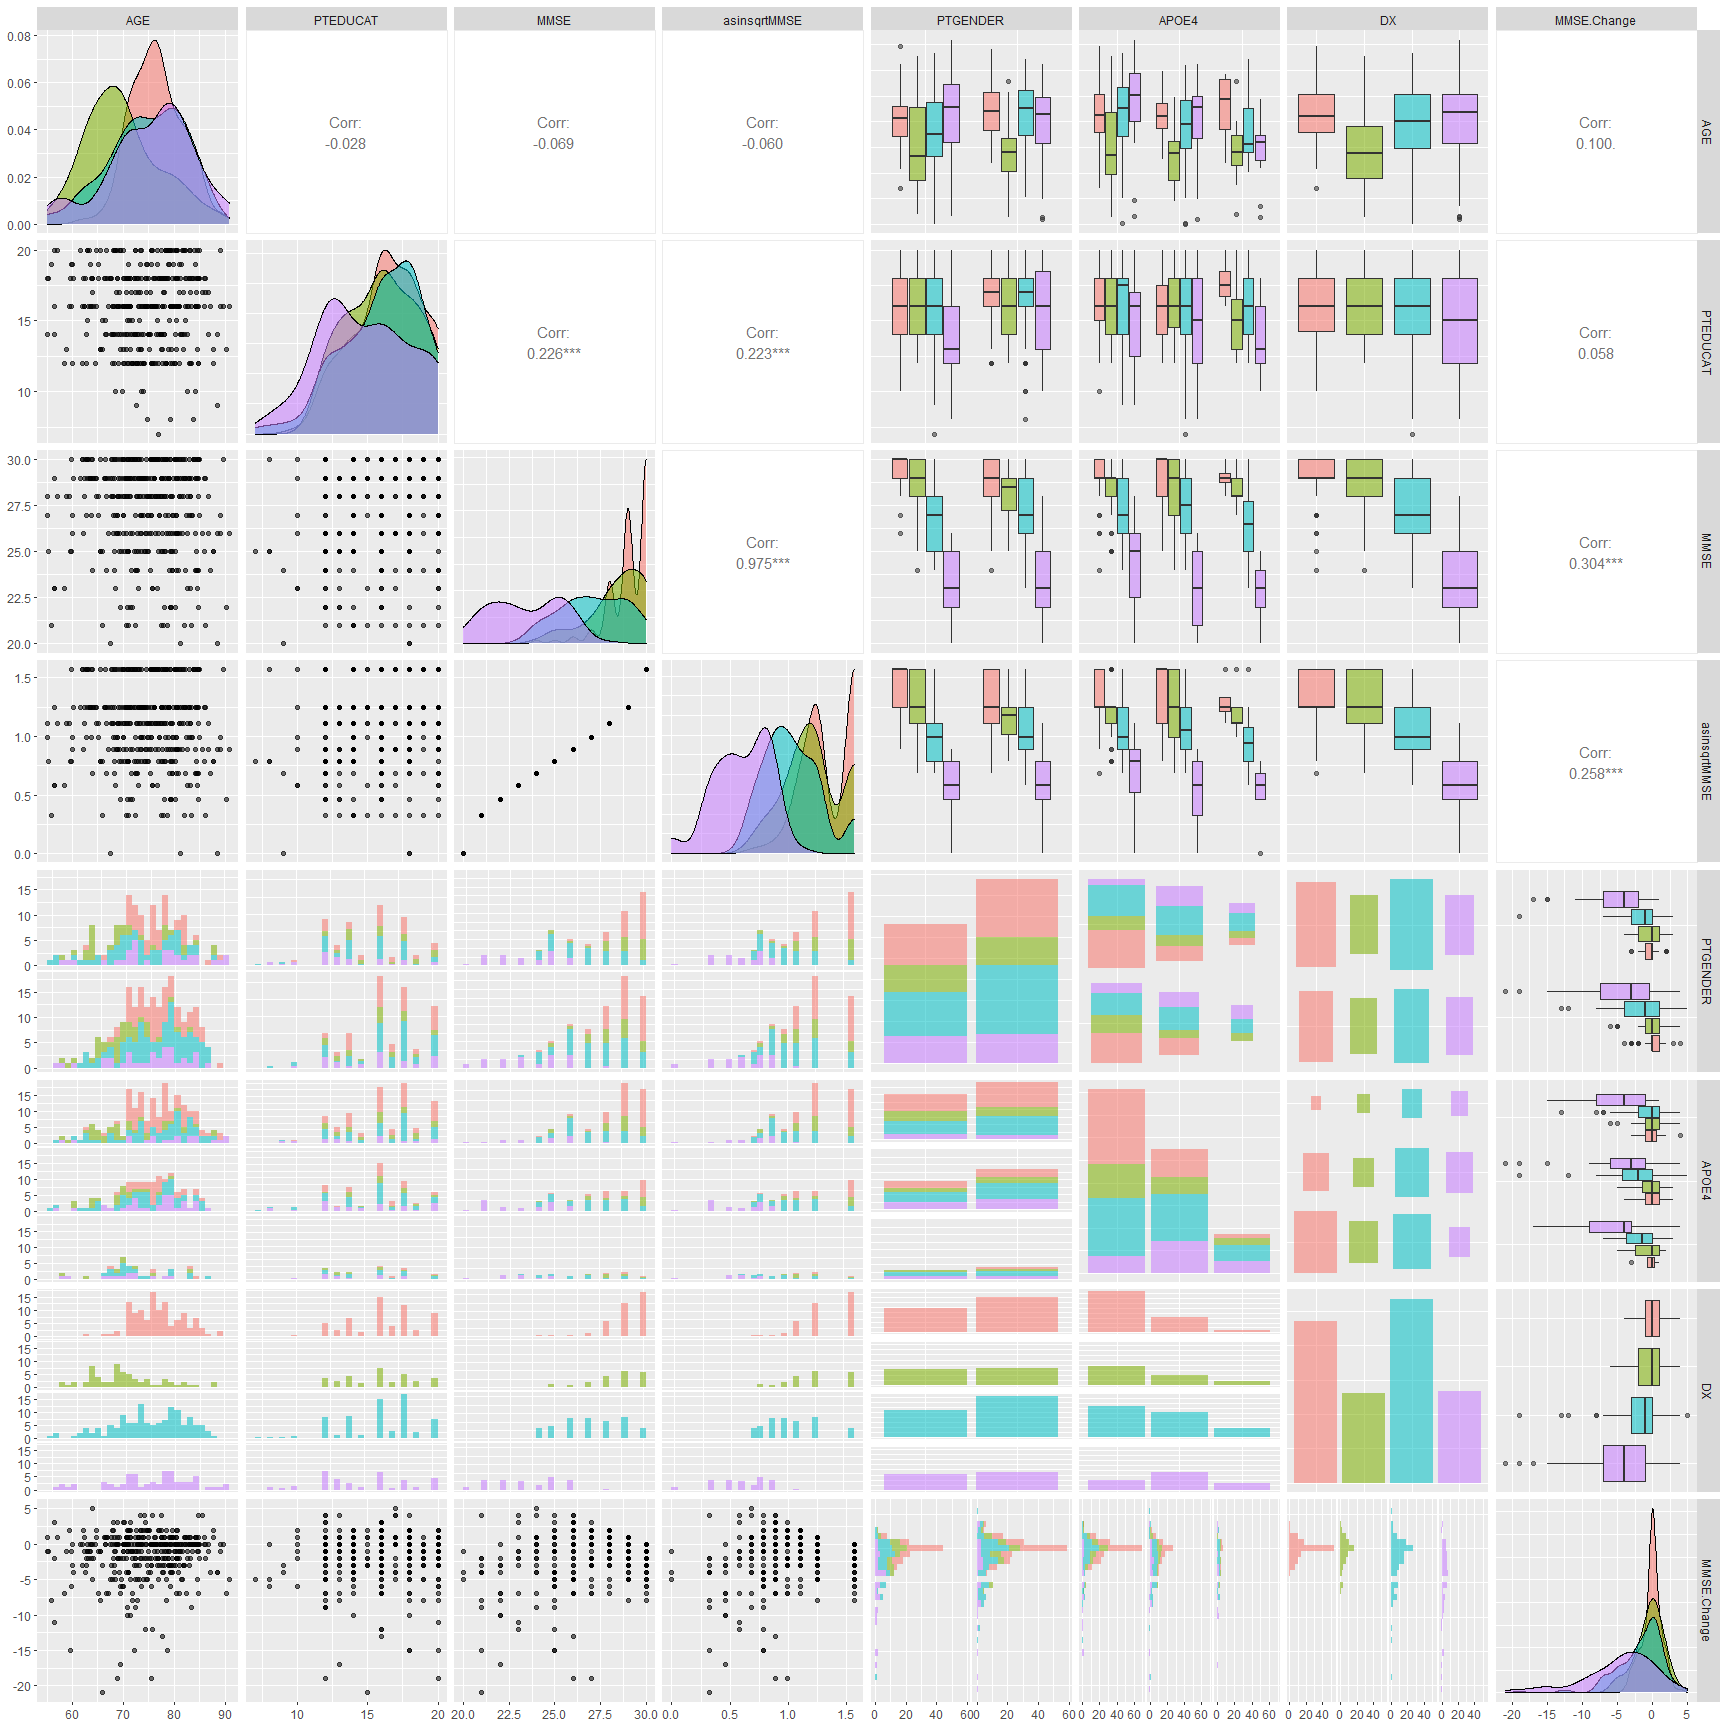
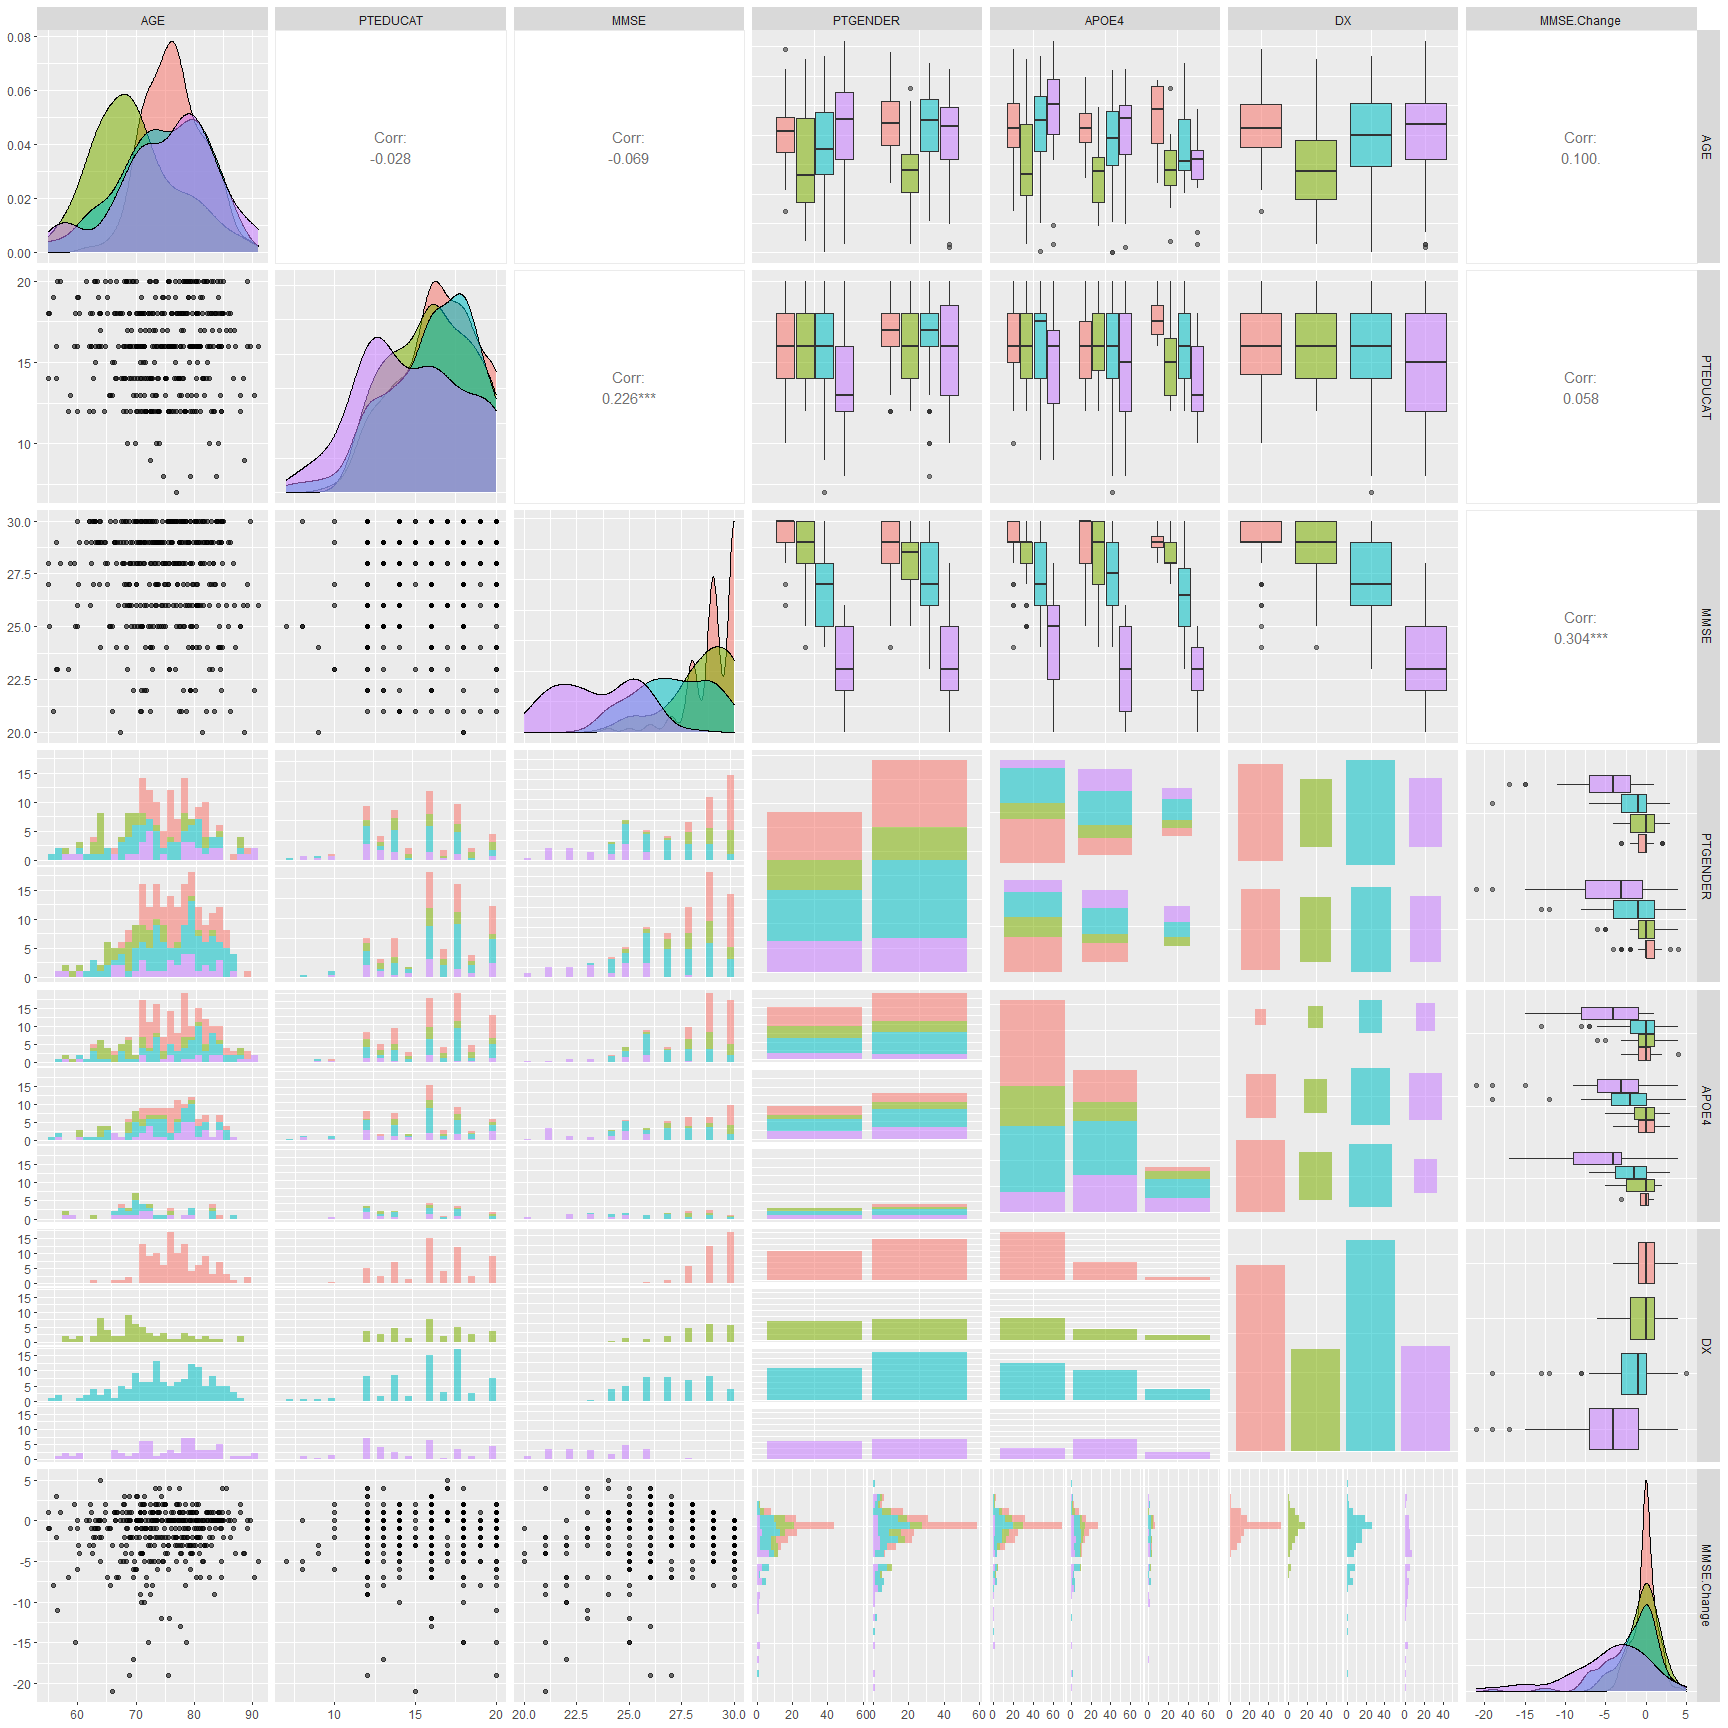
lme model + MMSE transforms

diff --git a/README.md b/README.md
@@ -87,7 +87,8 @@ Sample MMSE:
 <!-- GETTING STARTED -->
 ## Getting Started
 
-1 Sentence problem statement (what's Y, what's X, etc.)
+The goal of this projet is to predict the change in MMSE score `MMSE.Change` (Y) given baseline patient features. Note, this is a regression problem and although `MMSE` is a discrete count the predicted quanitity `MMSE.Change` will be treated as a continuous variable.
+
 
 Preprocessing:
 - Exploratory plotting
@@ -124,6 +125,18 @@ transform(
 df %>% head()
 ```
 
+First, the dataset was read into R, then the data integrity was quickly validated by
+- Checking column names/datatypes
+  - Including understanding the meaning of each feature/categorical entry
+- Checking for missing values
+- Checking basic summary statistics
+
+Note that levels of the DX (diagnosis) column are as follows:
+- CN : Cognitively normal
+- EMCI : Early Mild Cognitive Impairment
+- LMCI : Late Mile Cognitive Impairment
+- AD : Alzheimer's Disease
+
 <figure>
   <img src="./img/dfHead.png", width = "1080">
   <figcaption><b>Fig 2.</b> Head of Dataset.</figcaption>
@@ -131,17 +144,23 @@ df %>% head()
 
 <p align="right">(<a href="#top">back to top</a>)</p>
 
-It is important to realize here that our relevant feature space is _extremely_ limited.  Of the 10 original columns in the dataset, 1 (`MMSE.Change`) is the response variable, and 3 (`RID`, `PTID`, `EXAMDATE`) have minimal-no predictive information.  This leaves only 6 columns for training on a dataset with 384 entries. In short, this is very little data for a very complicated problem and this will likely result in relatively high variance in the regressive models.
+After a cursory examination of the dataset, it is important to realize here that our relevant feature space is _extremely_ limited.  Of the 10 original columns in the dataset, 1 (`MMSE.Change`) is the response variable, and 3 (`RID`, `PTID`, `EXAMDATE`) have minimal-no predictive information.  This leaves only 6 columns for training on a dataset with 384 entries. In short, unless there are very dominant features with extremely high predictive value, this is very little data for a very complicated problem and this will likely result in relatively high variance in the regressive models.
 
 ### Exploratory Plotting
 
 ```{r, fig.width= 18, fig.height=18, message = FALSE, warning = FALSE}
 df %>% 
-  mutate(asinsqrtMMSE = asin(sqrt(minmax(MMSE)))  ) %>%
-  select(AGE, PTEDUCAT, MMSE, asinsqrtMMSE, everything(), MMSE.Change, -RID, -PTID, -EXAMDATE) %>% # removing factors with too many levels or irrelevant features
+  select(AGE, PTEDUCAT, MMSE, everything(), MMSE.Change, -RID, -PTID, -EXAMDATE) %>% # removing factors with too many levels or irrelevant features
   ggpairs(aes(fill = DX, alpha = 0.7), progress = FALSE)
 
 ```
+
+There are several observations we can make from the plot below.
+
+1) The grid pattern seen in the `MMSE` vs `PTEDUCAT` scatter plot is indicative of two discrete variables.  Indeed, both years of education and MMSE are represented as whole numbers in this dataset.  While this may not have a large impact on our predictive model, it is nevertheless important to recongize the underlying structure of our data.
+2) The distribution of `MMSE` appears to be have a strong left skew. Moreover, this value is relatively weakly correleated with the outcome variable `MMSE.Change`. Later, we will examine how a couple of transforms change the correlation and distribution of `MMSE` and `MMSE.Changed`
+3) Looking by eye, `MMSE.Change` seems relatively comparable between most categorical features and `MMSE` seems to be the only quantitative feature significantly correlated with the aforementioned. `DX` perhaps shows a modestly lower `MMSE.Change` in the case of AD, but the variance is quite large.  
+4) Again by eye, there do not appear to be any very strong linear dependencies between features.
 
 <figure>
   <img src="./img/pairs_colorDX.png", width = "1080">
@@ -149,7 +168,6 @@ df %>%
 </figure>
 
 ```{r}
-# template: https://www.datanovia.com/en/blog/elegant-visualization-of-density-distribution-in-r-using-ridgeline/
 df %>%
   ggplot(aes(x = `MMSE.Change`, y = DX, group = DX, fill = factor(stat(quantile)))) + 
   stat_density_ridges(
@@ -194,6 +212,21 @@ df %>%
 In some groups (CN/EMCI), the line/points clearly indicate subject variability. This variability seems to increase in LMCI and AD.  Note that because the MMSE score is capped at 30, we may have some censoring which could cause the measure of center to shift to the left.
 
 <p align="right">(<a href="#top">back to top</a>)</p>
+
+```{r, fig.width= 12, fig.height=12, message = FALSE, warning = FALSE}
+df %>% 
+  mutate(asinsqrtMMSE = asin(sqrt(minmax(MMSE))), logMMSE = log(MMSE+1), MMSE4mo = MMSE + `MMSE.Change`, logMMSE4mo = log(MMSE4mo+1), asinsqrtMMSE4mo = asin(sqrt(minmax(MMSE4mo)))) %>%
+  select(MMSE, asinsqrtMMSE, logMMSE, MMSE.Change, MMSE4mo, logMMSE4mo, asinsqrtMMSE4mo, DX) %>% # removing factors with too many levels or irrelevant features
+  ggpairs(aes(fill = DX, alpha = 0.7), progress = FALSE)
+
+```
+
+<figure>
+  <img src="./img/pairsplotMMSETransforms.png", width = "720">
+  <figcaption><b>Fig 6.</b> MMSE Transforms</figcaption>
+</figure>
+
+Note that of the transforms performed, the asin-sqrt transform of `MMSE4mo` showed the strongest correlation to the baseline `MMSE`.  We will try a model both using the transformed dependent variable and with the raw data.
 
 ### Feature Selection
 
@@ -247,9 +280,10 @@ fviz_mfa_ind(resFAMD,
 
 ## Modeling
 
-* GLM
-* RF
-* Neural Net?
+* General Linear Model
+* Linear Mixed Effects
+* Random Forest
+
 
 ### GLM
 
@@ -303,6 +337,8 @@ Number of Fisher Scoring iterations: 2
 
 <p align="right">(<a href="#top">back to top</a>)</p>
 
+
+
 ### RF
 
 #### Setup
@@ -345,14 +381,86 @@ DX       26.222985      776.4001
 
 <p align="right">(<a href="#top">back to top</a>)</p>
 
-### Neural Net (?)
+
+### Linear Mixed Effects
 
 #### Setup
+```{r}
+lmeMod2 <- lme(`MMSE.Change`~ AGE+MMSE+PTGENDER+PTEDUCAT+APOE4+DX, random = ~ 1|PTID, data = df_lme)
+lmeMod2
+summary(lmeMod2)
+```
 
+```
+Linear mixed-effects model fit by REML
+  Data: df_lme 
+  Log-restricted-likelihood: -989.6201
+  Fixed: MMSE.Change ~ AGE + MMSE + PTGENDER + PTEDUCAT + APOE4 + DX 
+ (Intercept)          AGE         MMSE PTGENDERMale     PTEDUCAT       APOE41       APOE42       DXEMCI       DXLMCI         DXAD 
+  0.35167737   0.05543014  -0.14411548   0.29307865  -0.03558215  -0.34469115  -0.42067946  -0.01832123  -1.74341427  -5.25577317 
+
+Random effects:
+ Formula: ~1 | PTID
+        (Intercept) Residual
+StdDev:    2.967406 1.112879
+
+Fixed effects:  MMSE.Change ~ AGE + MMSE + PTGENDER + PTEDUCAT + APOE4 + DX 
+ Correlation: 
+             (Intr) AGE    MMSE   PTGEND PTEDUC APOE41 APOE42 DXEMCI DXLMCI
+AGE          -0.582                                                        
+MMSE         -0.815  0.093                                                 
+PTGENDERMale  0.054 -0.100  0.008                                          
+PTEDUCAT     -0.193  0.058 -0.121 -0.228                                   
+APOE41       -0.124  0.107  0.028 -0.059  0.092                            
+APOE42       -0.197  0.165  0.105 -0.054  0.077  0.324                     
+DXEMCI       -0.319  0.303  0.148  0.006  0.029 -0.013 -0.036              
+DXLMCI       -0.449  0.112  0.438 -0.021 -0.009 -0.112 -0.087  0.461       
+DXAD         -0.659  0.080  0.736  0.015  0.010 -0.128 -0.064  0.350  0.608
+
+Standardized Within-Group Residuals:
+        Min          Q1         Med          Q3         Max 
+-1.89867440 -0.12633857  0.03271953  0.18422209  0.97386997 
+
+Number of Observations: 384
+Number of Groups: 384 
+
+AIC: 2003.24
+BIC: 2050.331
+logLik: -989.6201	
+
+```
+<figure>
+  <img src="./img/lmeSummary.png", width = "720">
+  <figcaption><b>Fig .</b> Linear Mixed Effects Summary.</figcaption>
+</figure>
+
+
+```{r}
+plot(lmeMod2)
+df_lme$yPred <- predict(lmeMod2)
+
+df_lme %>%
+  ggplot(aes(x = MMSE.Change, y = yPred)) +
+  geom_point(alpha = 0.7) +
+  geom_abline(slope = 1, color = "red")
+
+df_lme %>%
+  ggplot(aes(x = MMSE.Change, y = round(yPred, 0)) ) +
+  geom_point() +
+  geom_abline(slope = 1, color = "red")
+```
+
+
+
+<figure>
+  <img src="./img/rfPlot.png", width = "720">
+  <figcaption><b>Fig 7.</b> Random Forest Regression Plots.</figcaption>
+</figure>
 
 #### Evaluation
 
 
+<p align="right">(<a href="#top">back to top</a>)</p>
 
 
 ## Discussion
